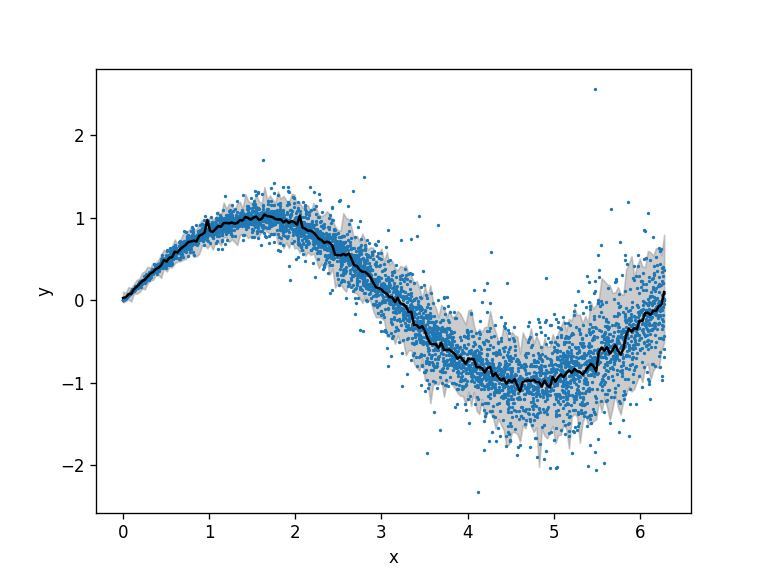
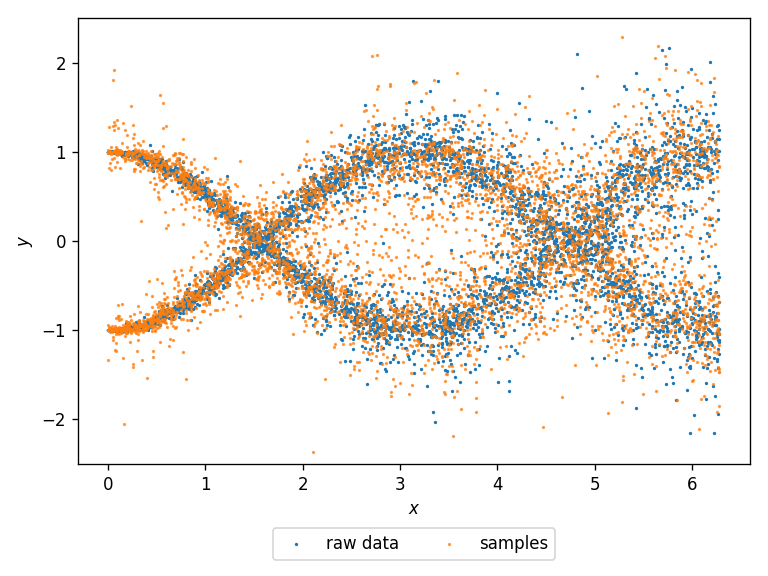
replace prediciton plot with scatter plot of raw data vs samples

Changed region(s): [[0.0625, 0.0312, 1.0, 1.0]]

diff --git a/notebooks/README_example.py b/notebooks/README_example.py
@@ -4,31 +4,27 @@ import numpy as np
 from treeffuser import Treeffuser
 
 # Generate the data
-rng = np.random.default_rng(seed=0)
+seed = 0
+rng = np.random.default_rng(seed=seed)
 n = 5000
 x = rng.uniform(0, 2 * np.pi, size=n)
-y = np.sin(x) + rng.laplace(scale=x / 20, size=n)
+comp = rng.integers(0, 2, size=n)
+y = comp * np.sin(x - np.pi / 2) + (1 - comp) * np.cos(x) + rng.laplace(scale=x / 20, size=n)
 
 # Fit the model
-model = Treeffuser()
+model = Treeffuser(seed=seed)
 model.fit(x, y)
 
-# Generate samples and return predictions
-x_new = np.linspace(x.min(), x.max(), 200)
-y_samples = model.sample(x_new, n_samples=10**2, verbose=True)
-y_preds = y_samples.mean(axis=0)
-y_q05, y_q95 = np.quantile(y_samples, q=[0.05, 0.95], axis=0)
+# Generate and plot samples
+y_samples = model.sample(x, n_samples=1, seed=seed, verbose=True)
 
-# Plot original data and predictions
-sorted_idx = np.argsort(x_new)
-x_sorted, y_preds_sorted, y_q05_sorted, y_q95_sorted = (
-    arr[sorted_idx] for arr in [x_new, y_preds, y_q05, y_q95]
-)
-plt.plot(x_sorted, y_preds_sorted, color="black")
-plt.fill_between(x_sorted, y_q05_sorted, y_q95_sorted, color="gray", alpha=0.4)
-plt.scatter(x, y, s=1)
+plt.scatter(x, y, s=1, label="raw data")
+plt.scatter(x, y_samples[0, :], s=1, alpha=0.7, label="samples")
+plt.ylim(-2.5, 2.5)
 
-plt.xlabel("x")
-plt.ylabel("y")
+plt.xlabel("$x$")
+plt.ylabel("$y$")
 
+plt.legend(loc="upper center", bbox_to_anchor=(0.5, -0.125), ncol=2)
+plt.tight_layout()
 plt.savefig("README_example.png", dpi=120)

diff --git a/README.rst b/README.rst
@@ -25,7 +25,7 @@ Usage Example
 
 Here's a simple example demonstrating how to use Treeffuser.
 
-We generate an heteroscedastic response with a sinusoidal mean and heavy tails.
+We generate an heteroscedastic response with two sinusoidal components and heavy tails.
 
 .. code-block:: python
 
@@ -34,43 +34,38 @@ We generate an heteroscedastic response with a sinusoidal mean and heavy tails.
     from treeffuser import Treeffuser
 
     # Generate data
-    rng = np.random.default_rng(seed=0)
+    seed=0
+    rng = np.random.default_rng(seed=seed)
     n = 5000
     x = rng.uniform(0, 2 * np.pi, size=n)
-    y = np.sin(x) + rng.laplace(scale=x / 20, size=n)
+    comp = rng.integers(0, 2, size=n)
+    y = comp * np.sin(x - np.pi / 2) + (1 - comp) * np.cos(x) + rng.laplace(scale=x / 30, size=n)
 
-We fit Treeffuser and generate samples. These can be used to compute any downstream estimates of interest.
+We fit Treeffuser and generate samples. We then plot the samples against the raw data.
 
 .. code-block:: python
 
     # Fit the model
-    model = Treeffuser()
+    model = Treeffuser(seed=seed)
     model.fit(x, y)
 
-    # Generate samples and return downstream estimates
-    x_new = np.linspace(x.min(), x.max(), 200)
-    y_samples = model.sample(x_new, n_samples=10**2, verbose=True)
-    y_preds = y_samples.mean(axis=0)
-    y_q05, y_q95 = np.quantile(y_samples, q=[0.05, 0.95], axis=0)
-    ... # other metrics
+    # Generate and plot samples
+    y_samples = model.sample(x, n_samples=1, seed=seed, verbose=True)
+    plt.scatter(x, y, s=1, label="raw data")
+    plt.scatter(x, y_samples[0, :], s=1, alpha=0.7, label="samples")
 
-We then plot the original data along with the model's predictions.
+.. image:: README_example.png
+   :alt: Treeffuser on heteroscedastic data with sinuisodal response and heavy tails.
+   :align: center
+
+As Treeffuser recovers the target density, its samples can be used to compute any downstream estimates of interest.
 
 .. code-block:: python
 
-    sorted_idx = np.argsort(x_new)
-    x_sorted, y_preds_sorted, y_q05_sorted, y_q95_sorted = [
-        arr[sorted_idx] for arr in [x_new, y_preds, y_q05, y_q95]
-    ]
-    plt.plot(x_sorted, y_preds_sorted, color="black")
-    plt.fill_between(x_sorted, y_q05_sorted, y_q95_sorted, color="gray", alpha=0.4)
-    plt.scatter(x, y, s=1)
-
-    plt.xlabel("x")
-    plt.ylabel("y")
-    plt.show()
-.. image:: README_example.png
-   :alt: Treeffuser on heteroscedastic data with sinuisodal response and fat tails
-   :align: center
+    # Compute downstream estimates
+    y_samples = model.sample(x, n_samples=10**2, verbose=True)
+    y_preds = y_samples.mean(axis=0)
+    y_q05, y_q95 = np.quantile(y_samples, q=[0.05, 0.95], axis=0)
+    ...
 
 Please refer to the documentation for more information on the available methods and parameters.
